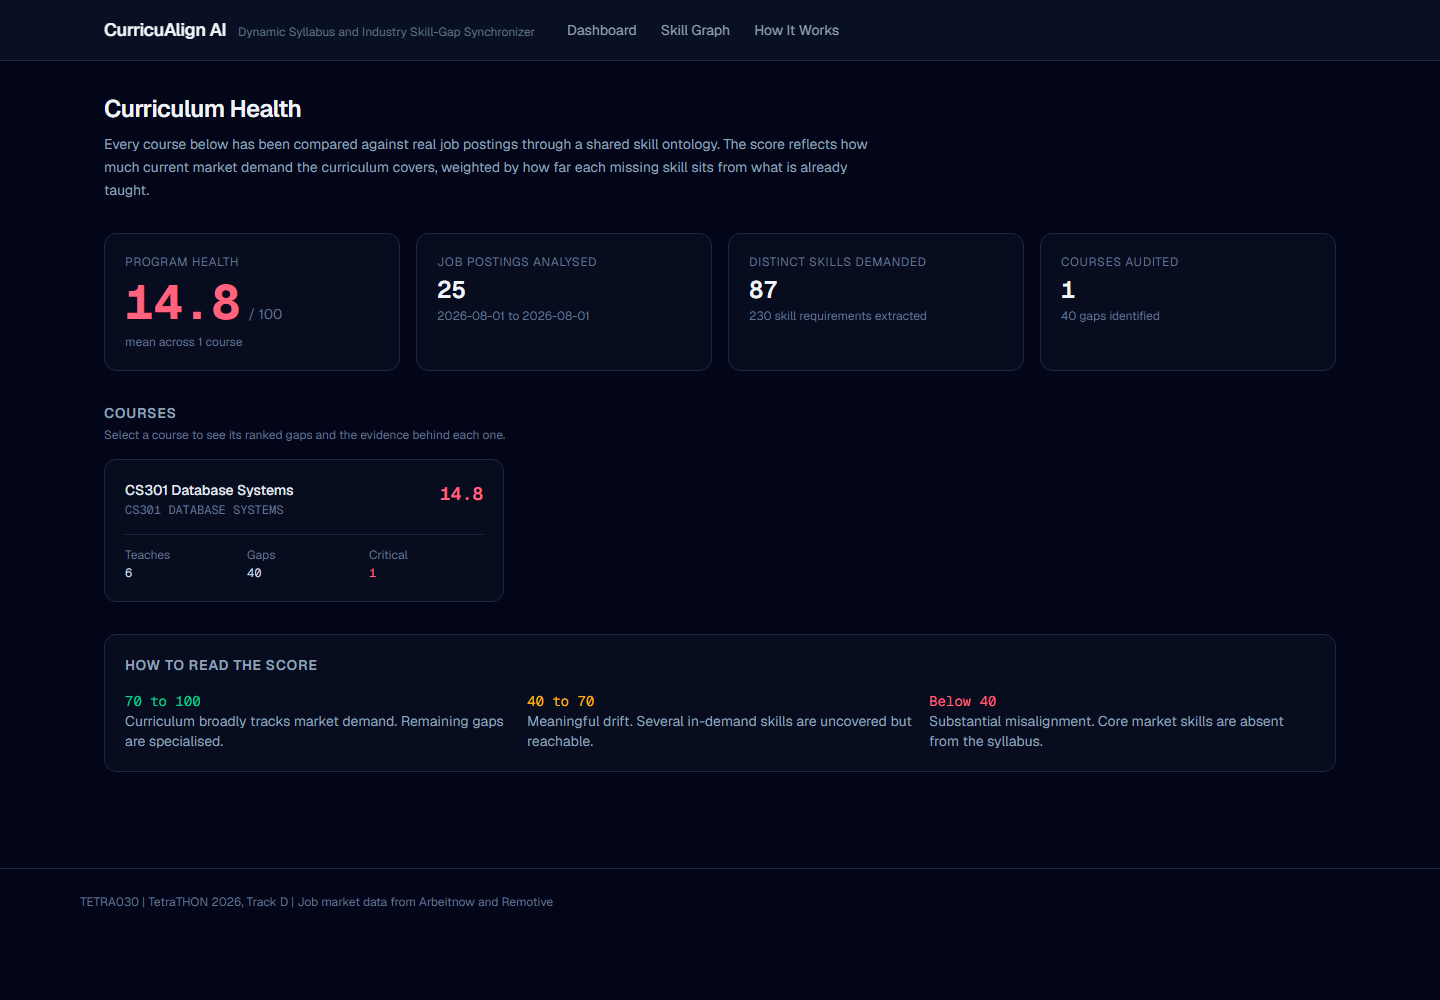
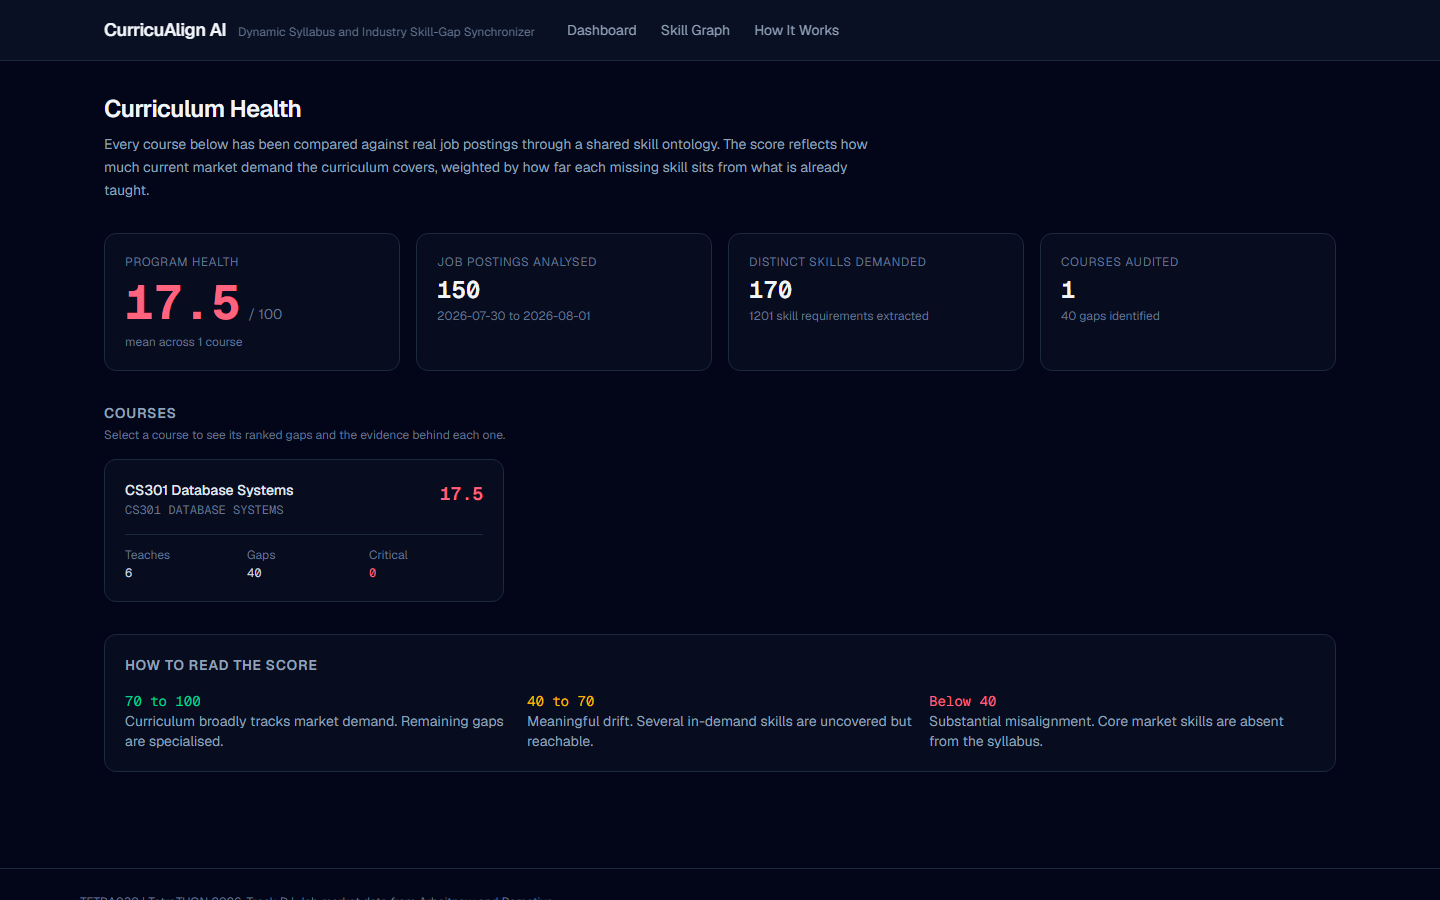
TETRA030: Fix graph layout, remove duplicated evidence, add screenshots
Three fixes that were only visible by screenshotting the running pages
rather than asserting on HTML.

Graph nodes piled along the canvas edges because the position clamp pinned
them without removing the velocity pushing them outward. Contact now
reflects velocity, and the repulsion and centering constants were retuned,
so the layout fills the frame instead of forming rows against the walls.

Labels overlapped into an unreadable mass in dense regions. They are now
drawn in a second pass, largest node first, and skipped where they would
collide with one already placed.

Every gap card stated its prerequisite distance twice: once inside the
evidence sentence and again on the colour-coded line beneath it. The
evidence string now carries only the market fact, and reachability is the
frontend's to render.

Screenshots captured from the running application against 150 real job
postings, where the evidence reads "53 of 150 postings require this".

diff --git a/backend/tests/test_orchestrator.py b/backend/tests/test_orchestrator.py
@@ -50,17 +50,14 @@ def test_evidence_reports_partial_coverage():
     assert "only 40%" in _build_evidence(10, 100, 0.4, 1)
 
 
-def test_evidence_flags_a_cheap_addition():
-    assert "low-cost addition" in _build_evidence(10, 100, 0.0, 1)
-
-
-def test_evidence_flags_an_unreachable_skill():
-    evidence = _build_evidence(10, 100, 0.0, UNREACHABLE_DISTANCE)
-    assert "no prerequisite path" in evidence
-
-
-def test_evidence_counts_prerequisite_hops():
-    assert "3 prerequisite hops" in _build_evidence(10, 100, 0.0, 3)
+def test_evidence_omits_reachability():
+    """The frontend renders reachability as its own colour-coded line.
+    Repeating it in the evidence string made every gap card read as if it
+    were saying the same thing twice."""
+    for distance in (1, 3, UNREACHABLE_DISTANCE):
+        evidence = _build_evidence(10, 100, 0.0, distance)
+        assert "prerequisite" not in evidence
+        assert "postings require this" in evidence
 
 
 def test_report_ranks_technical_skills_above_soft_skills():

diff --git a/backend/app/pipeline/orchestrator.py b/backend/app/pipeline/orchestrator.py
@@ -170,13 +170,9 @@ def _build_evidence(
     else:
         parts.append(f"current coverage is only {coverage:.0%}")
 
-    if distance >= UNREACHABLE_DISTANCE:
-        parts.append("no prerequisite path from what this course already teaches")
-    elif distance <= 1:
-        parts.append("adjacent to existing content, so a low-cost addition")
-    else:
-        parts.append(f"{distance} prerequisite hops from existing content")
-
+    # Reachability is deliberately absent here. The frontend renders it as its
+    # own colour-coded line, and stating it twice made every gap card read as
+    # if it were repeating itself.
     return "; ".join(parts)
 
 
